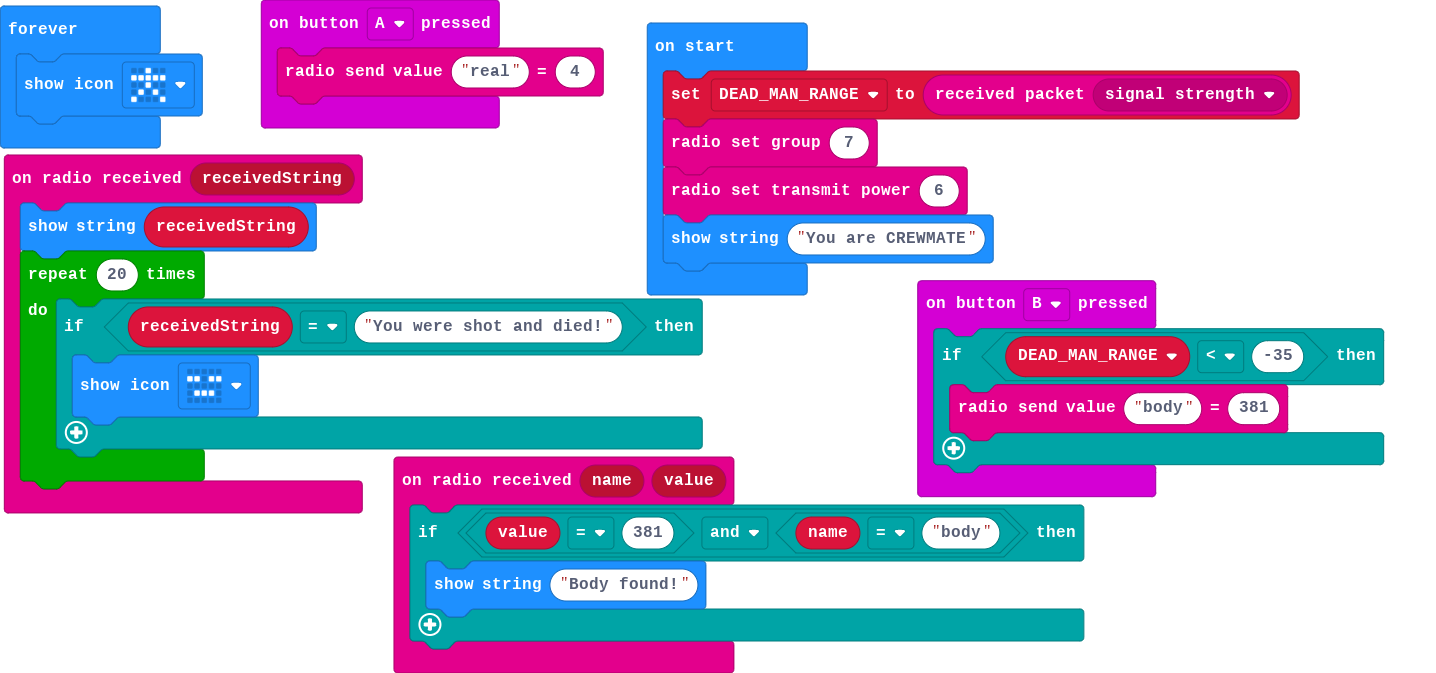
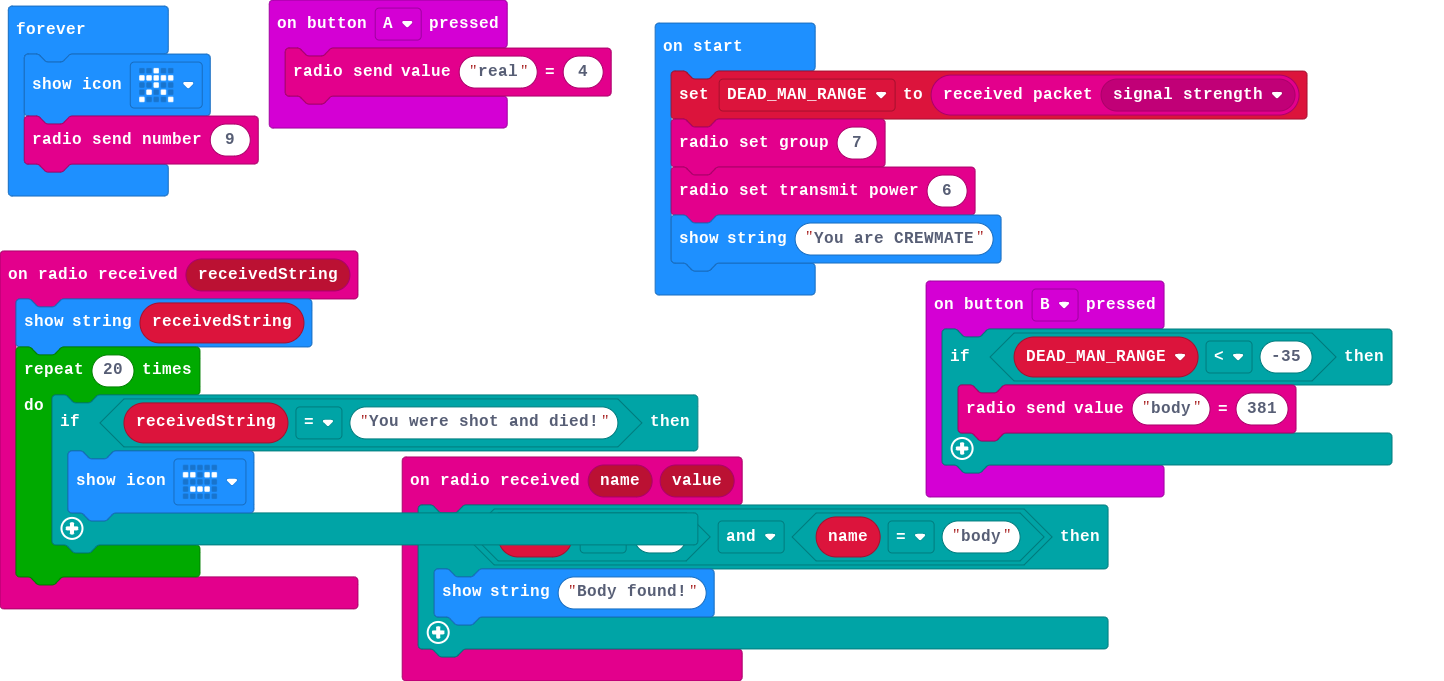
Update main.blocks, main.ts

Changed region(s): [[0.0, 0.0, 0.9805, 1.0], [0.4903, 0.9361, 0.5209, 1.0], [0.7354, 0.9049, 0.766, 0.9673]]

diff --git a/main.ts b/main.ts
@@ -26,4 +26,5 @@ radio.setTransmitPower(6)
 basic.showString("You are CREWMATE")
 basic.forever(function () {
     basic.showIcon(IconNames.StickFigure)
+    radio.sendNumber(9)
 })
